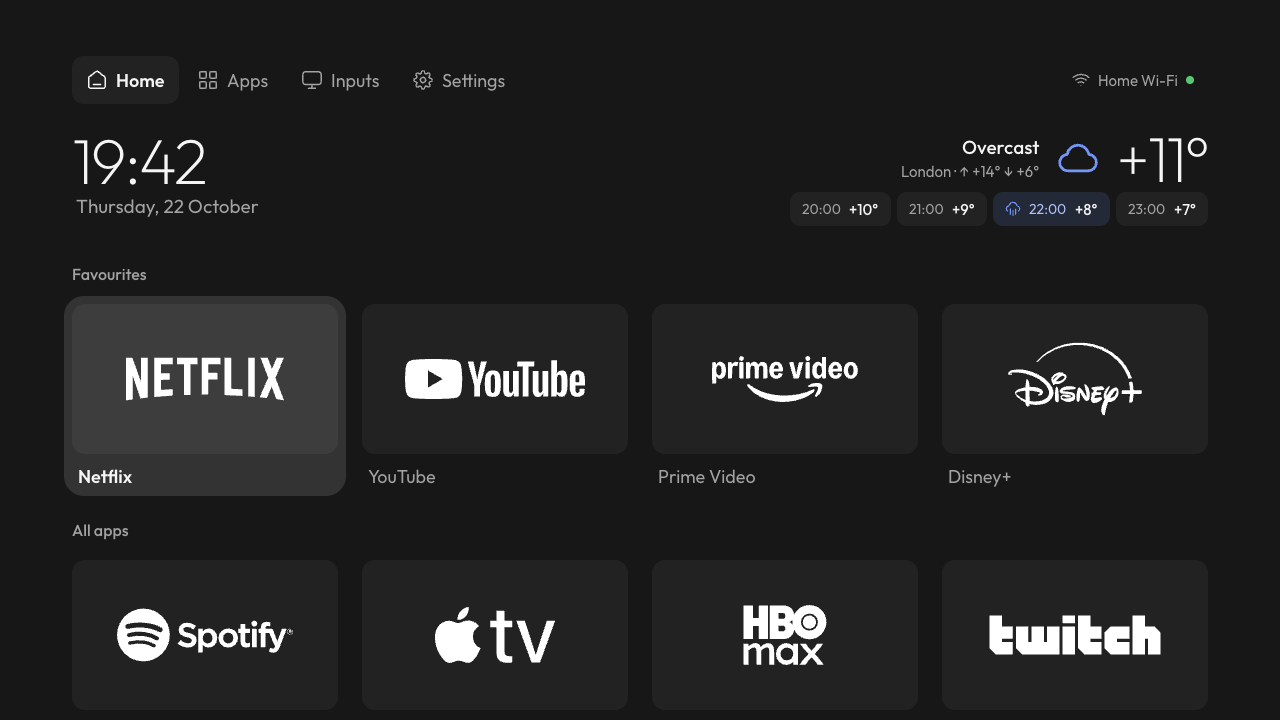
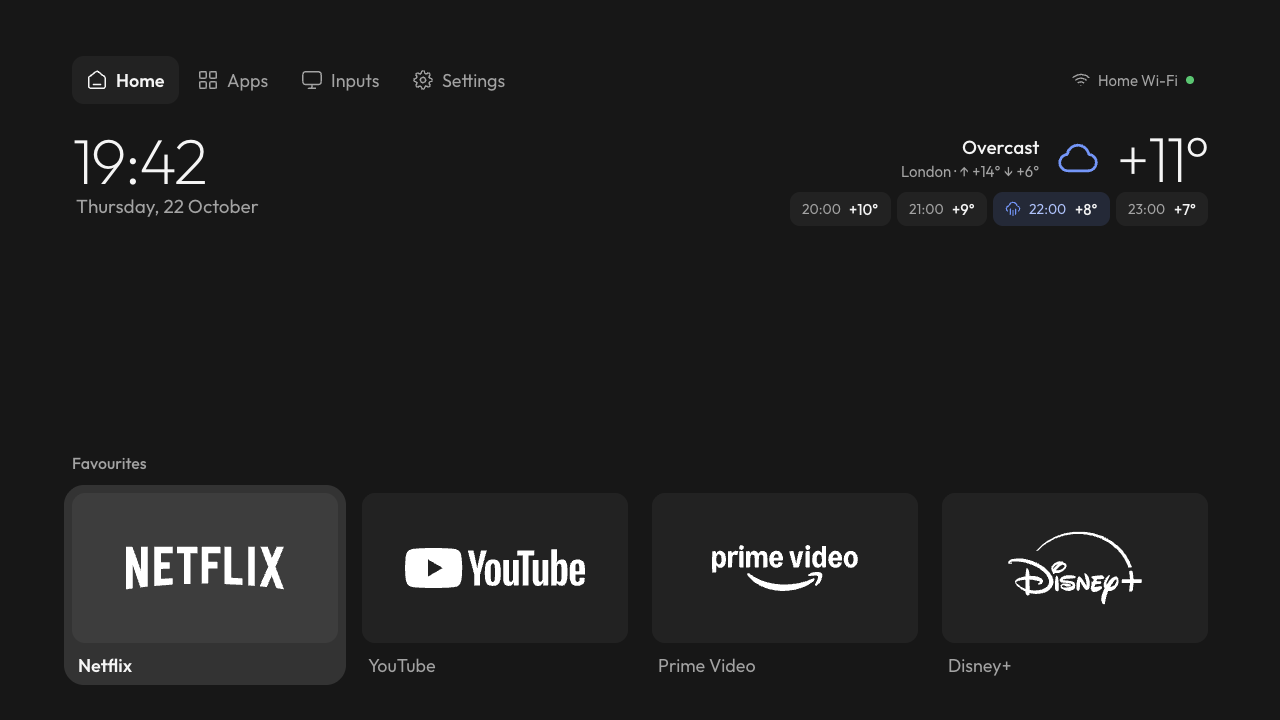
Home: Favourites placed from the bottom edge; the README mockup to match
The Favourites row sat at a fixed top that suits five columns; with four
(the default) the taller tiles pushed the focus plate to the screen's
edge. The row is now placed 35px (of 720) above the bottom for any
column count; five columns land where they were, to the pixel. The
English README mockup shows the new Home: clock, weather, Favourites.

diff --git a/launcher/app/src/main/java/com/gathin/tvhome/MainActivity.java b/launcher/app/src/main/java/com/gathin/tvhome/MainActivity.java
@@ -559,6 +559,16 @@ public class MainActivity extends Activity implements AppAdapter.TileListener {
         btnApps.setOnClickListener(v -> showApps());
         gridFrame = findViewById(R.id.gridFrame);
         clockGroup = findViewById(R.id.clockGroup);
+        // The XML margin is the five-column top; once the screen has its size, place it for this column count.
+        root.post(() -> {
+            if (appsScreen) return;
+            ViewGroup.MarginLayoutParams lp = (ViewGroup.MarginLayoutParams) gridFrame.getLayoutParams();
+            int top = homeGridTop();
+            if (lp.topMargin != top) {
+                lp.topMargin = top;
+                gridFrame.setLayoutParams(lp);
+            }
+        });
         weatherBlock = findViewById(R.id.weather);
         weather = new Weather(this, weatherBlock);
         btnReorder = findViewById(R.id.btnReorder);
@@ -1317,8 +1327,12 @@ public class MainActivity extends Activity implements AppAdapter.TileListener {
 
     // ---- Home and the Apps screen ----------------------------------------------------------------
 
-    /** Grid top on Home: Favourites sit low, where the All apps row used to start (527px of 720). */
-    static final float HOME_GRID_TOP_DP = 365.25f;
+    /**
+     * Home: the Favourites row sits low, its focus plate 35px (of 720) above the bottom edge whatever the column
+     * count, as in the mockup. Five columns put the tiles at 527px, where the All apps row used to start; four
+     * columns' taller tiles start higher instead of pushing the plate off the screen.
+     */
+    static final float HOME_BOTTOM_GAP_DP = 26.25f;
     /** Grid top on the Apps screen: right under the nav row, the clock and the weather are hidden. */
     static final float APPS_GRID_TOP_DP = 102f;
 
@@ -1350,7 +1364,7 @@ public class MainActivity extends Activity implements AppAdapter.TileListener {
         clockGroup.setVisibility(apps ? View.GONE : View.VISIBLE);
         weatherBlock.setVisibility(apps ? View.GONE : View.VISIBLE);
         ViewGroup.MarginLayoutParams lp = (ViewGroup.MarginLayoutParams) gridFrame.getLayoutParams();
-        int top = Math.round((apps ? APPS_GRID_TOP_DP : HOME_GRID_TOP_DP) * density);
+        int top = apps ? Math.round(APPS_GRID_TOP_DP * density) : homeGridTop();
         if (lp.topMargin != top) {
             lp.topMargin = top;
             gridFrame.setLayoutParams(lp);
@@ -1363,6 +1377,17 @@ public class MainActivity extends Activity implements AppAdapter.TileListener {
         adapter.setDockOnly(!apps);
         ((GridLayoutManager) grid.getLayoutManager()).scrollToPositionWithOffset(0, 0);
         hideGlass();
+    }
+
+    /** The grid's top on Home: the dock's title room, tile and plate, then the bottom gap, up from the screen's bottom. */
+    private int homeGridTop() {
+        int width = root.getWidth() > 0 ? root.getWidth() : getResources().getDisplayMetrics().widthPixels;
+        int height = root.getHeight() > 0 ? root.getHeight() : getResources().getDisplayMetrics().heightPixels;
+        int inner = width - grid.getPaddingLeft() - grid.getPaddingRight();
+        int tile = AppAdapter.tileHeightPx(AppAdapter.tileWidthPx(inner, COLUMNS, density));
+        float below = PLATE_BELOW_DP * density + HOME_BOTTOM_GAP_DP * density;
+        int room = Math.round(SectionDecoration.TITLE_ROOM_DP * density);
+        return Math.max(0, Math.round(height - below - tile - room));
     }
 
     // ---- the tile menu (OK held on a tile) -------------------------------------------------------
